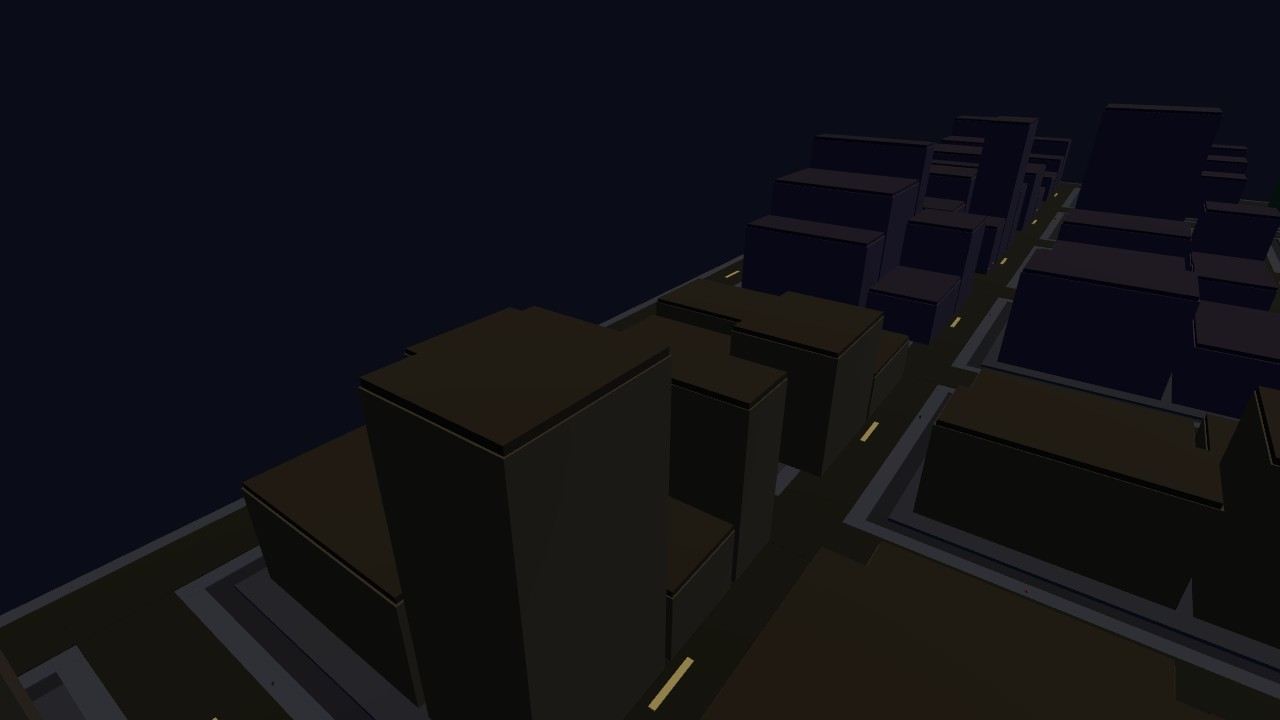
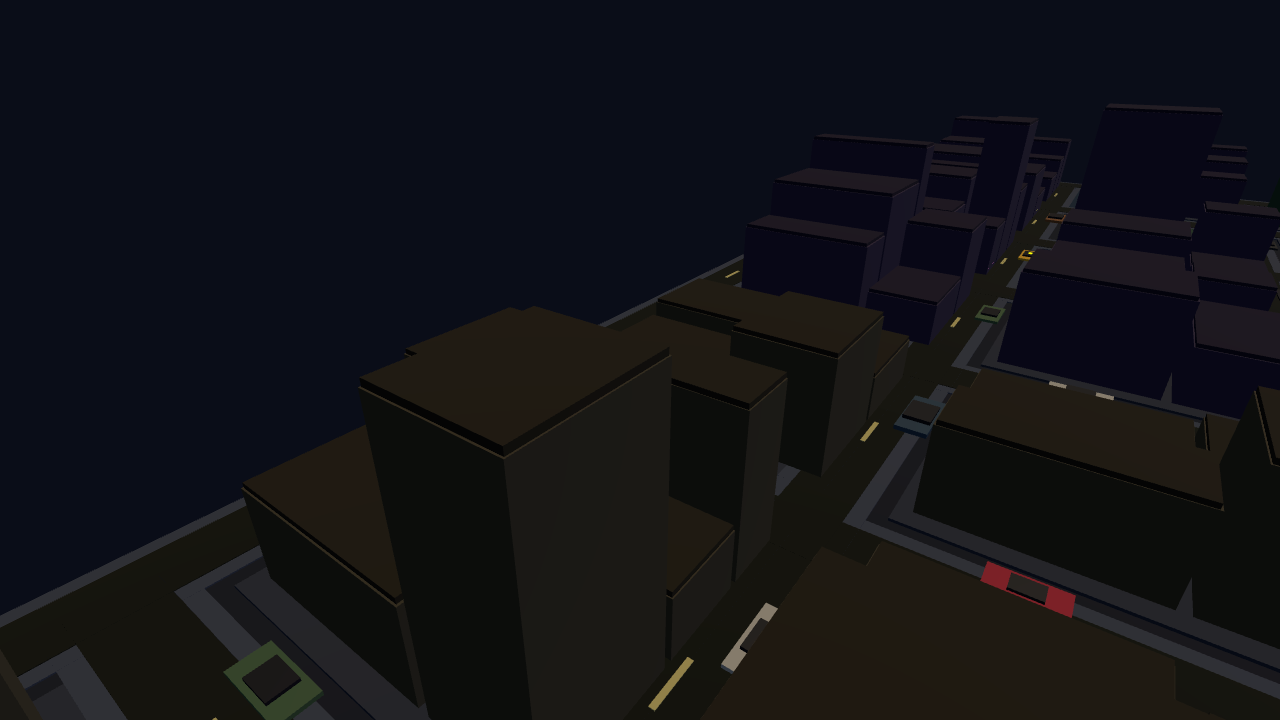
3D-5 fix: police shot shows the chase

diff --git a/game/src/render.js b/game/src/render.js
@@ -221,31 +221,35 @@ export function createRenderer(canvas) {
 
   function placeCar(mesh, car, color, isPolice) {
     const spec = car.spec ?? { length: 26, width: 12.4 };
-    const sx = spec.length / 26;
-    const sz = spec.width / 12.4;
+    // Cars are laid out in world units (a coupe is 24 long, 12 wide) so they read as vehicles
+    // beside the 150-unit blocks; before this they rendered at a fraction of a unit and vanished.
+    const length = spec.length;
+    const width = spec.width;
     mesh.visible = true;
     mesh.position.set(car.x, 1.4, car.y);
     mesh.rotation.y = -(car.heading || 0);
-    mesh.scale.set(sx, 1, sz);
+    mesh.scale.set(1, 1, 1);
     // color body (first child)
     const body = mesh.children[0];
     const cabin = mesh.children[1];
-    body.scale.set(1, 0.5, 0.55);
-    body.position.y = 0.35;
-    cabin.scale.set(0.55, 0.35, 0.5);
-    cabin.position.y = 0.7;
+    body.scale.set(length, 1.5, width);
+    body.position.y = 0.75;
+    cabin.scale.set(length * 0.46, 1.2, width * 0.72);
+    cabin.position.y = 2.1;
     body.material.color.set(color ?? '#cccccc');
     // Type-specific shape cues (coupe lower/sportier, van taller/boxier, taxi light)
     switch (car.type) {
       case 'van':
-        cabin.scale.set(0.68, 0.62, 0.6);
-        cabin.position.y = 0.88;
-        body.scale.y = 0.68;
+        body.scale.set(length, 2.1, width);
+        body.position.y = 1.05;
+        cabin.scale.set(length * 0.5, 1.7, width * 0.86);
+        cabin.position.y = 2.95;
         break;
       case 'coupe':
-        cabin.scale.set(0.42, 0.26, 0.44);
-        cabin.position.y = 0.64;
-        body.scale.y = 0.34;
+        body.scale.set(length, 1.1, width);
+        body.position.y = 0.55;
+        cabin.scale.set(length * 0.42, 1.0, width * 0.62);
+        cabin.position.y = 1.65;
         break;
       case 'taxi':
         break;
@@ -257,8 +261,8 @@ export function createRenderer(canvas) {
     while (lightChild) { mesh.remove(lightChild); lightChild = mesh.children.find((c) => c.userData && c.userData.taxiLight); }
     if (car.type === 'taxi') {
       const taxiLight = new THREE.Mesh(UNIT, new THREE.MeshStandardMaterial({ color: 0xffcc00, emissive: new THREE.Color(0xffcc00), emissiveIntensity: 2 }));
-      taxiLight.scale.set(0.18, 0.1, 0.32);
-      taxiLight.position.set(0, 0.92, 0);
+      taxiLight.scale.set(3.2, 0.7, 2.6);
+      taxiLight.position.set(0, 2.95, 0);
       taxiLight.userData = { taxiLight: true };
       mesh.add(taxiLight);
     }
@@ -267,8 +271,8 @@ export function createRenderer(canvas) {
       let lightChild2 = mesh.children.find((c) => c.userData && c.userData.policeLight);
       while (lightChild2) { mesh.remove(lightChild2); lightChild2 = mesh.children.find((c) => c.userData && c.userData.policeLight); }
       const bar = new THREE.Mesh(UNIT, new THREE.MeshStandardMaterial({ color: 0xff3333, emissive: new THREE.Color(0xff3333), emissiveIntensity: 2 }));
-      bar.scale.set(0.4, 0.15, 0.15);
-      bar.position.set(0, 0.6, 0);
+      bar.scale.set(length * 0.5, 0.9, width * 0.28);
+      bar.position.set(0, 2.95, 0);
       bar.userData = { policeLight: true };
       mesh.add(bar);
     }
@@ -330,29 +334,47 @@ export function createRenderer(canvas) {
 
   let lastTime = -1;
   let lastFocus = { x: WORLD / 2, y: WORLD / 2 };
-  function updateChaseCamera(state, time) {
-    const dt = lastTime < 0 ? 0.016 : Math.min(0.05, Math.max(0.001, time - lastTime));
-    lastTime = time;
+  // Where the chase camera belongs for the current focus. Shared by the eased follow camera and
+  // the screenshot snap so a capture never depends on how many frames the ease has had.
+  function chasePose(state) {
     const focus = state.vehicle ?? state.player;
-    lastFocus = focus;
     const heading = state.vehicle ? state.vehicle.heading : (state.player.heading ?? 0);
     const dist = state.vehicle ? 235 : 168;
     const height = state.vehicle ? 145 : 122;
     const lookAhead = state.vehicle ? 55 : 26;
-    let camX = focus.x - Math.cos(heading) * dist;
-    let camZ = focus.y - Math.sin(heading) * dist;
-    camX = Math.max(75, Math.min(WORLD - 75, camX));
-    camZ = Math.max(75, Math.min(WORLD - 75, camZ));
+    const camX = Math.max(75, Math.min(WORLD - 75, focus.x - Math.cos(heading) * dist));
+    const camZ = Math.max(75, Math.min(WORLD - 75, focus.y - Math.sin(heading) * dist));
+    return {
+      focus,
+      camX,
+      camZ,
+      height,
+      lookAhead,
+      targetX: focus.x + Math.cos(heading) * lookAhead,
+      targetZ: focus.y + Math.sin(heading) * lookAhead,
+    };
+  }
+
+  function snapChaseCamera(state) {
+    const pose = chasePose(state);
+    lastFocus = pose.focus;
+    camera.position.set(pose.camX, pose.height, pose.camZ);
+    camera.lookAt(pose.targetX, 9, pose.targetZ);
+  }
+
+  function updateChaseCamera(state, time) {
+    const dt = lastTime < 0 ? 0.016 : Math.min(0.05, Math.max(0.001, time - lastTime));
+    lastTime = time;
+    const pose = chasePose(state);
+    lastFocus = pose.focus;
     const ease = Math.min(1, dt * 6);
-    camera.position.x += (camX - camera.position.x) * ease;
-    camera.position.y += (height - camera.position.y) * ease;
-    camera.position.z += (camZ - camera.position.z) * ease;
+    camera.position.x += (pose.camX - camera.position.x) * ease;
+    camera.position.y += (pose.height - camera.position.y) * ease;
+    camera.position.z += (pose.camZ - camera.position.z) * ease;
     const shake = Math.max(0, Math.min(1, state.camera.shake || 0));
     camera.position.x += (Math.random() - 0.5) * shake * 6;
     camera.position.y += (Math.random() - 0.5) * shake * 2;
-    const targetX = focus.x + Math.cos(heading) * lookAhead;
-    const targetZ = focus.y + Math.sin(heading) * lookAhead;
-    camera.lookAt(targetX, 9, targetZ);
+    camera.lookAt(pose.targetX, 9, pose.targetZ);
   }
 
   function draw(game, time) {
@@ -377,5 +399,5 @@ export function createRenderer(canvas) {
 
   function screenToWorld() { return { x: lastFocus.x, y: lastFocus.y }; }
 
-  return { ctx, resize, setCity: buildScene, draw, screenToWorld, clampCamera, get view() { return { width: viewWidth, height: viewHeight, dpr }; } };
+  return { ctx, resize, setCity: buildScene, draw, screenToWorld, clampCamera, get view() { return { width: viewWidth, height: viewHeight, dpr }; }, camera };
 }

diff --git a/game/src/main.js b/game/src/main.js
@@ -13,7 +13,7 @@ import { createAudio } from './audio.js';
 import { districtName, enterVehicle, markerPoints, nearestRide, startMission, stepWorld } from './update.js';
 import { objectiveText, SHOP_CELL, START_CELL } from './story.js';
 import { readSave, readSettings, snapshot, writeSave, writeSettings } from './save.js';
-import { addHeat, clearWanted } from './police.js';
+import { addHeat, clearWanted, spawnCruiser } from './police.js';
 import { CELL } from './config.js';
 
 const canvas = document.getElementById('game');
@@ -441,6 +441,11 @@ function setupShot(name) {
     }
     addHeat(state.police.wanted, 200); // 3+ stars
     pushMessage(state, 'Three stars — roadblock ahead. Lose them or run them down.', 'bad', 7);
+    // Stage a visible police presence for the screenshot: a cruiser parked behind the player
+    // so the capture frame shows the chase.
+    const behind = 180;
+    const ang = Math.PI;
+    spawnCruiser(state.police, state.vehicle.x - Math.cos(ang) * behind, state.vehicle.y + Math.sin(ang) * behind);
   }
   state.camera.x = state.player.x;
   state.camera.y = state.player.y;
@@ -451,13 +456,16 @@ game.clampCamera = (camera) => renderer.clampCamera(camera);
 
 setupShot(shot);
 if (shot === 'city' || shot === 'chase' || shot === 'police') {
+  const idleFrames = shot === 'police' ? 240 : 90;
   const idle = { forward: false, back: false, left: false, right: false, fire: false, interact: false, aimX: 0, aimY: 0 };
-  for (let index = 0; index < 90; index += 1) {
+  for (let index = 0; index < idleFrames; index += 1) {
     idle.aimX = state.player.x + 120;
     idle.aimY = state.player.y + 20;
     stepWorld(game, 1 / 60, idle);
   }
   state.events.length = 0;
+  // Snap the chase camera so the screenshot frame is already in position
+  renderer.snapChaseCamera(state);
 }
 
 let accumulator = 0;
